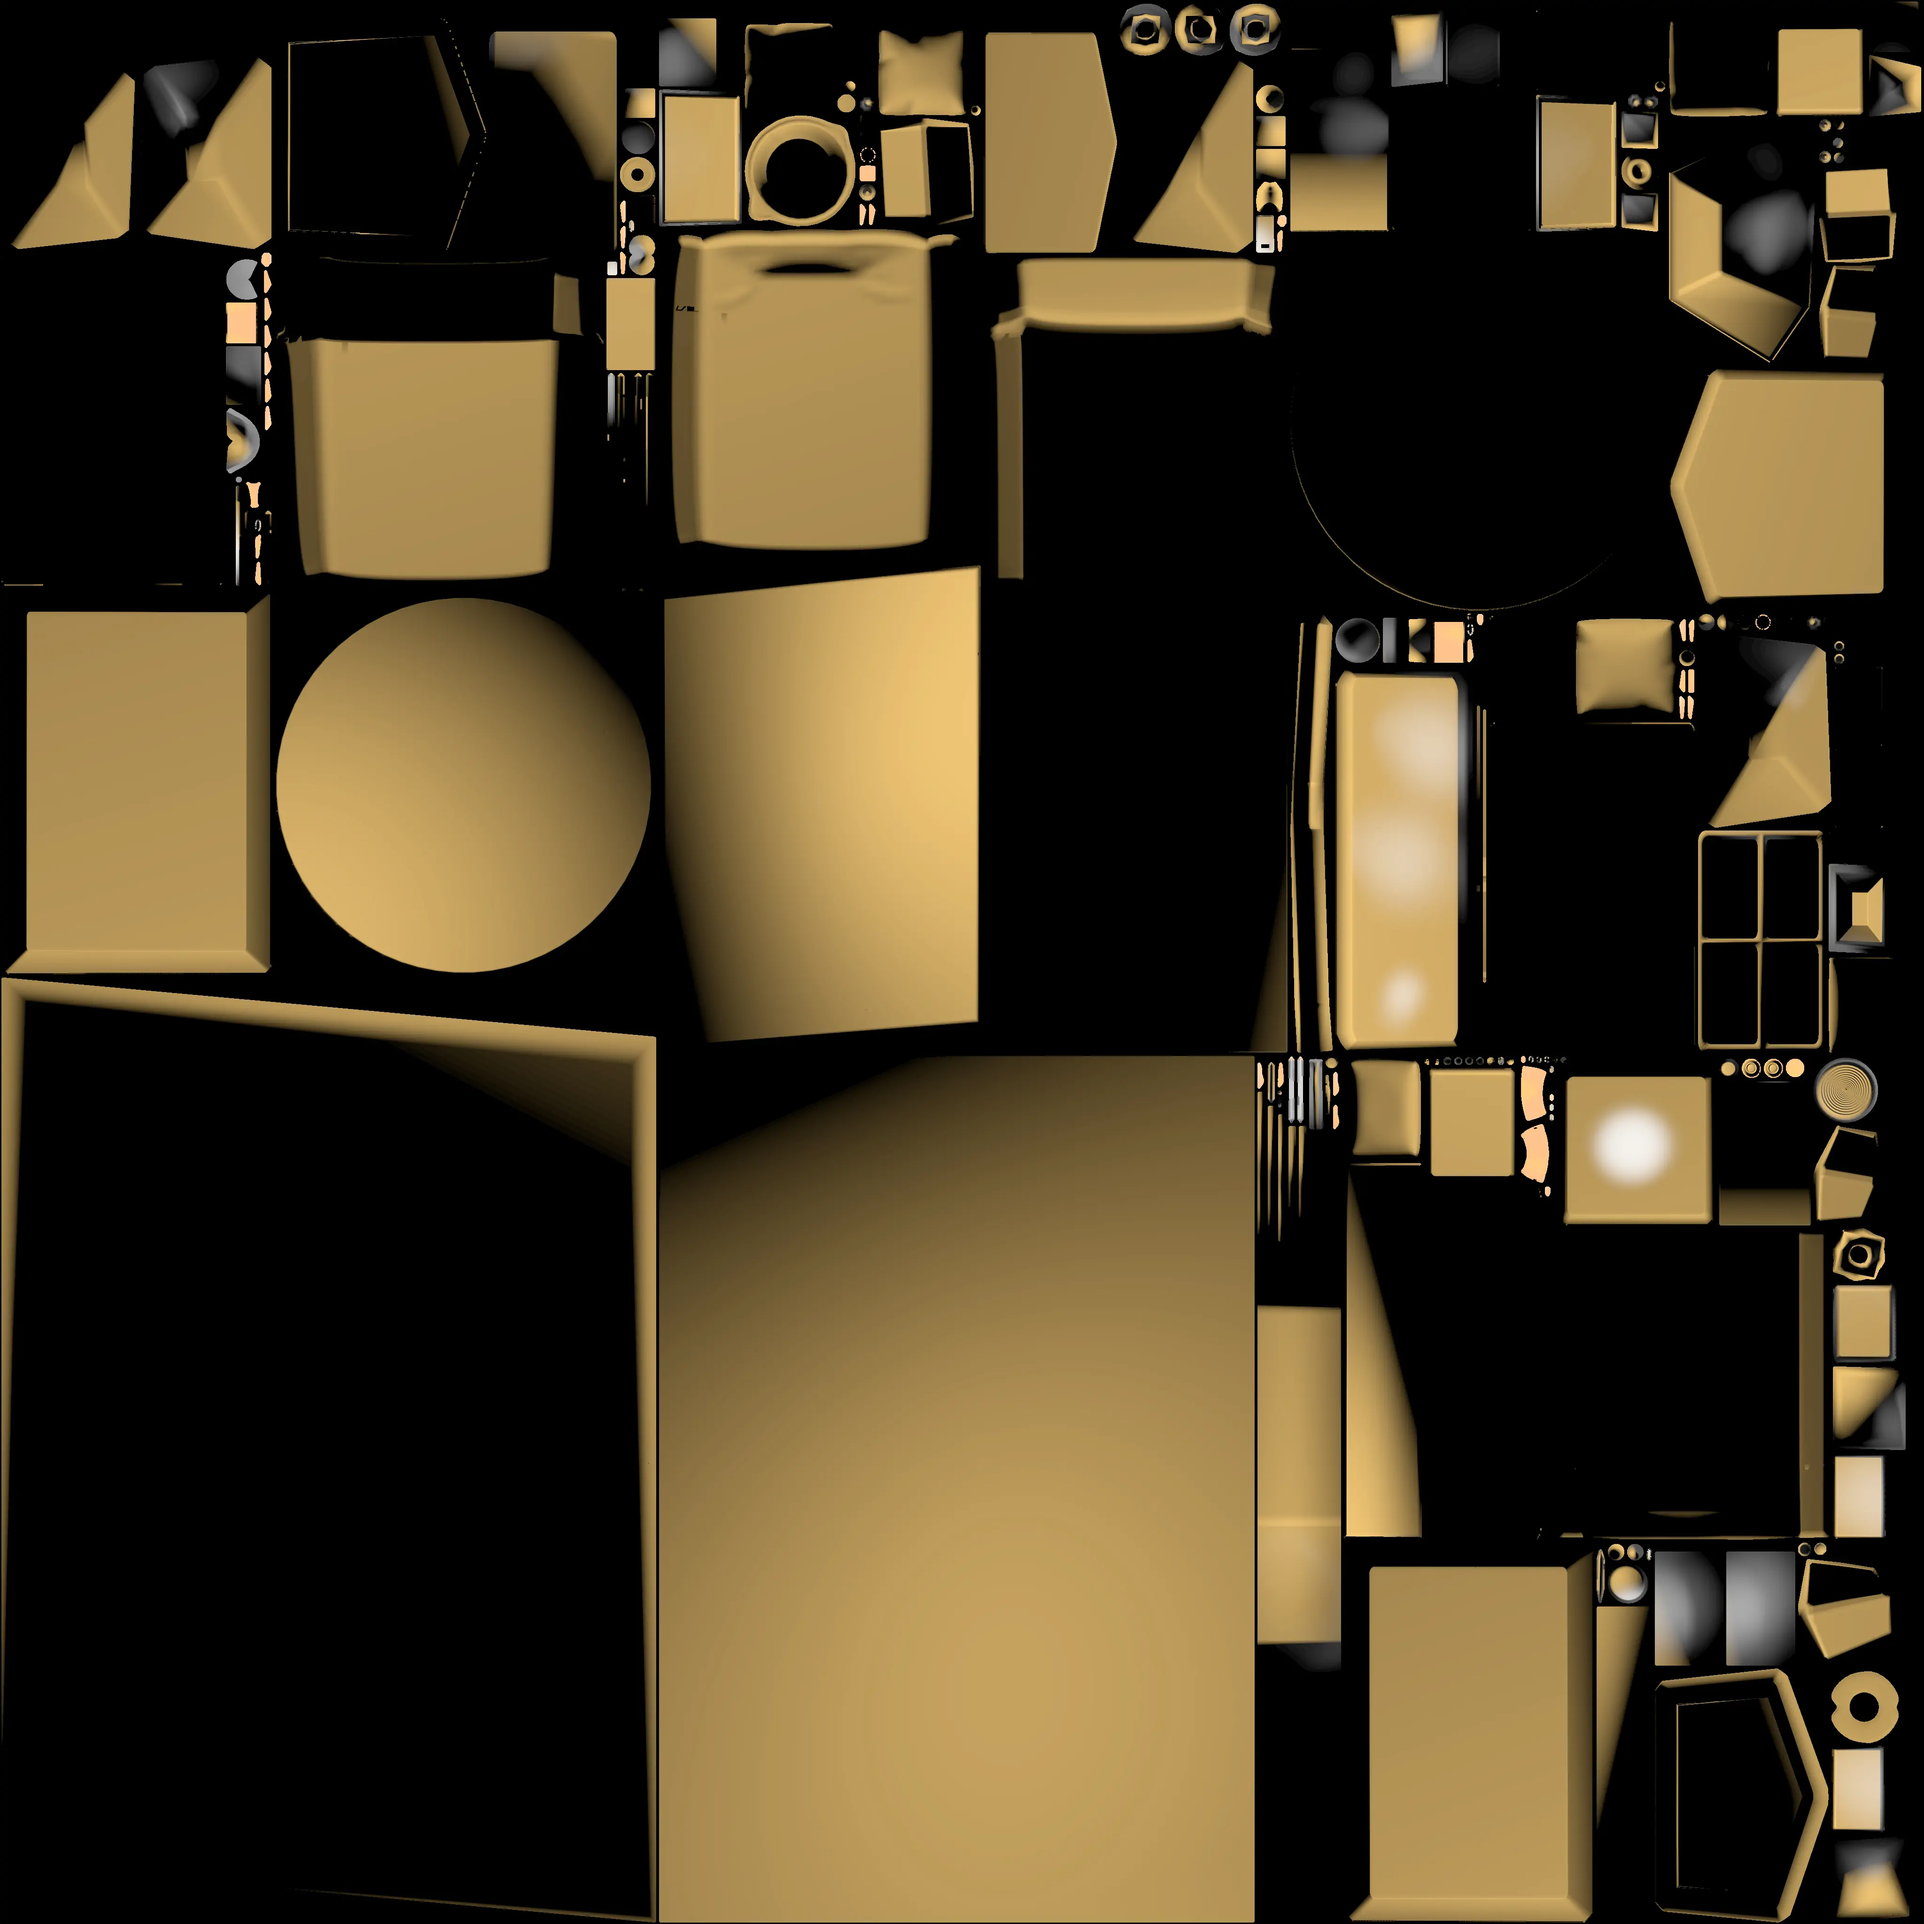
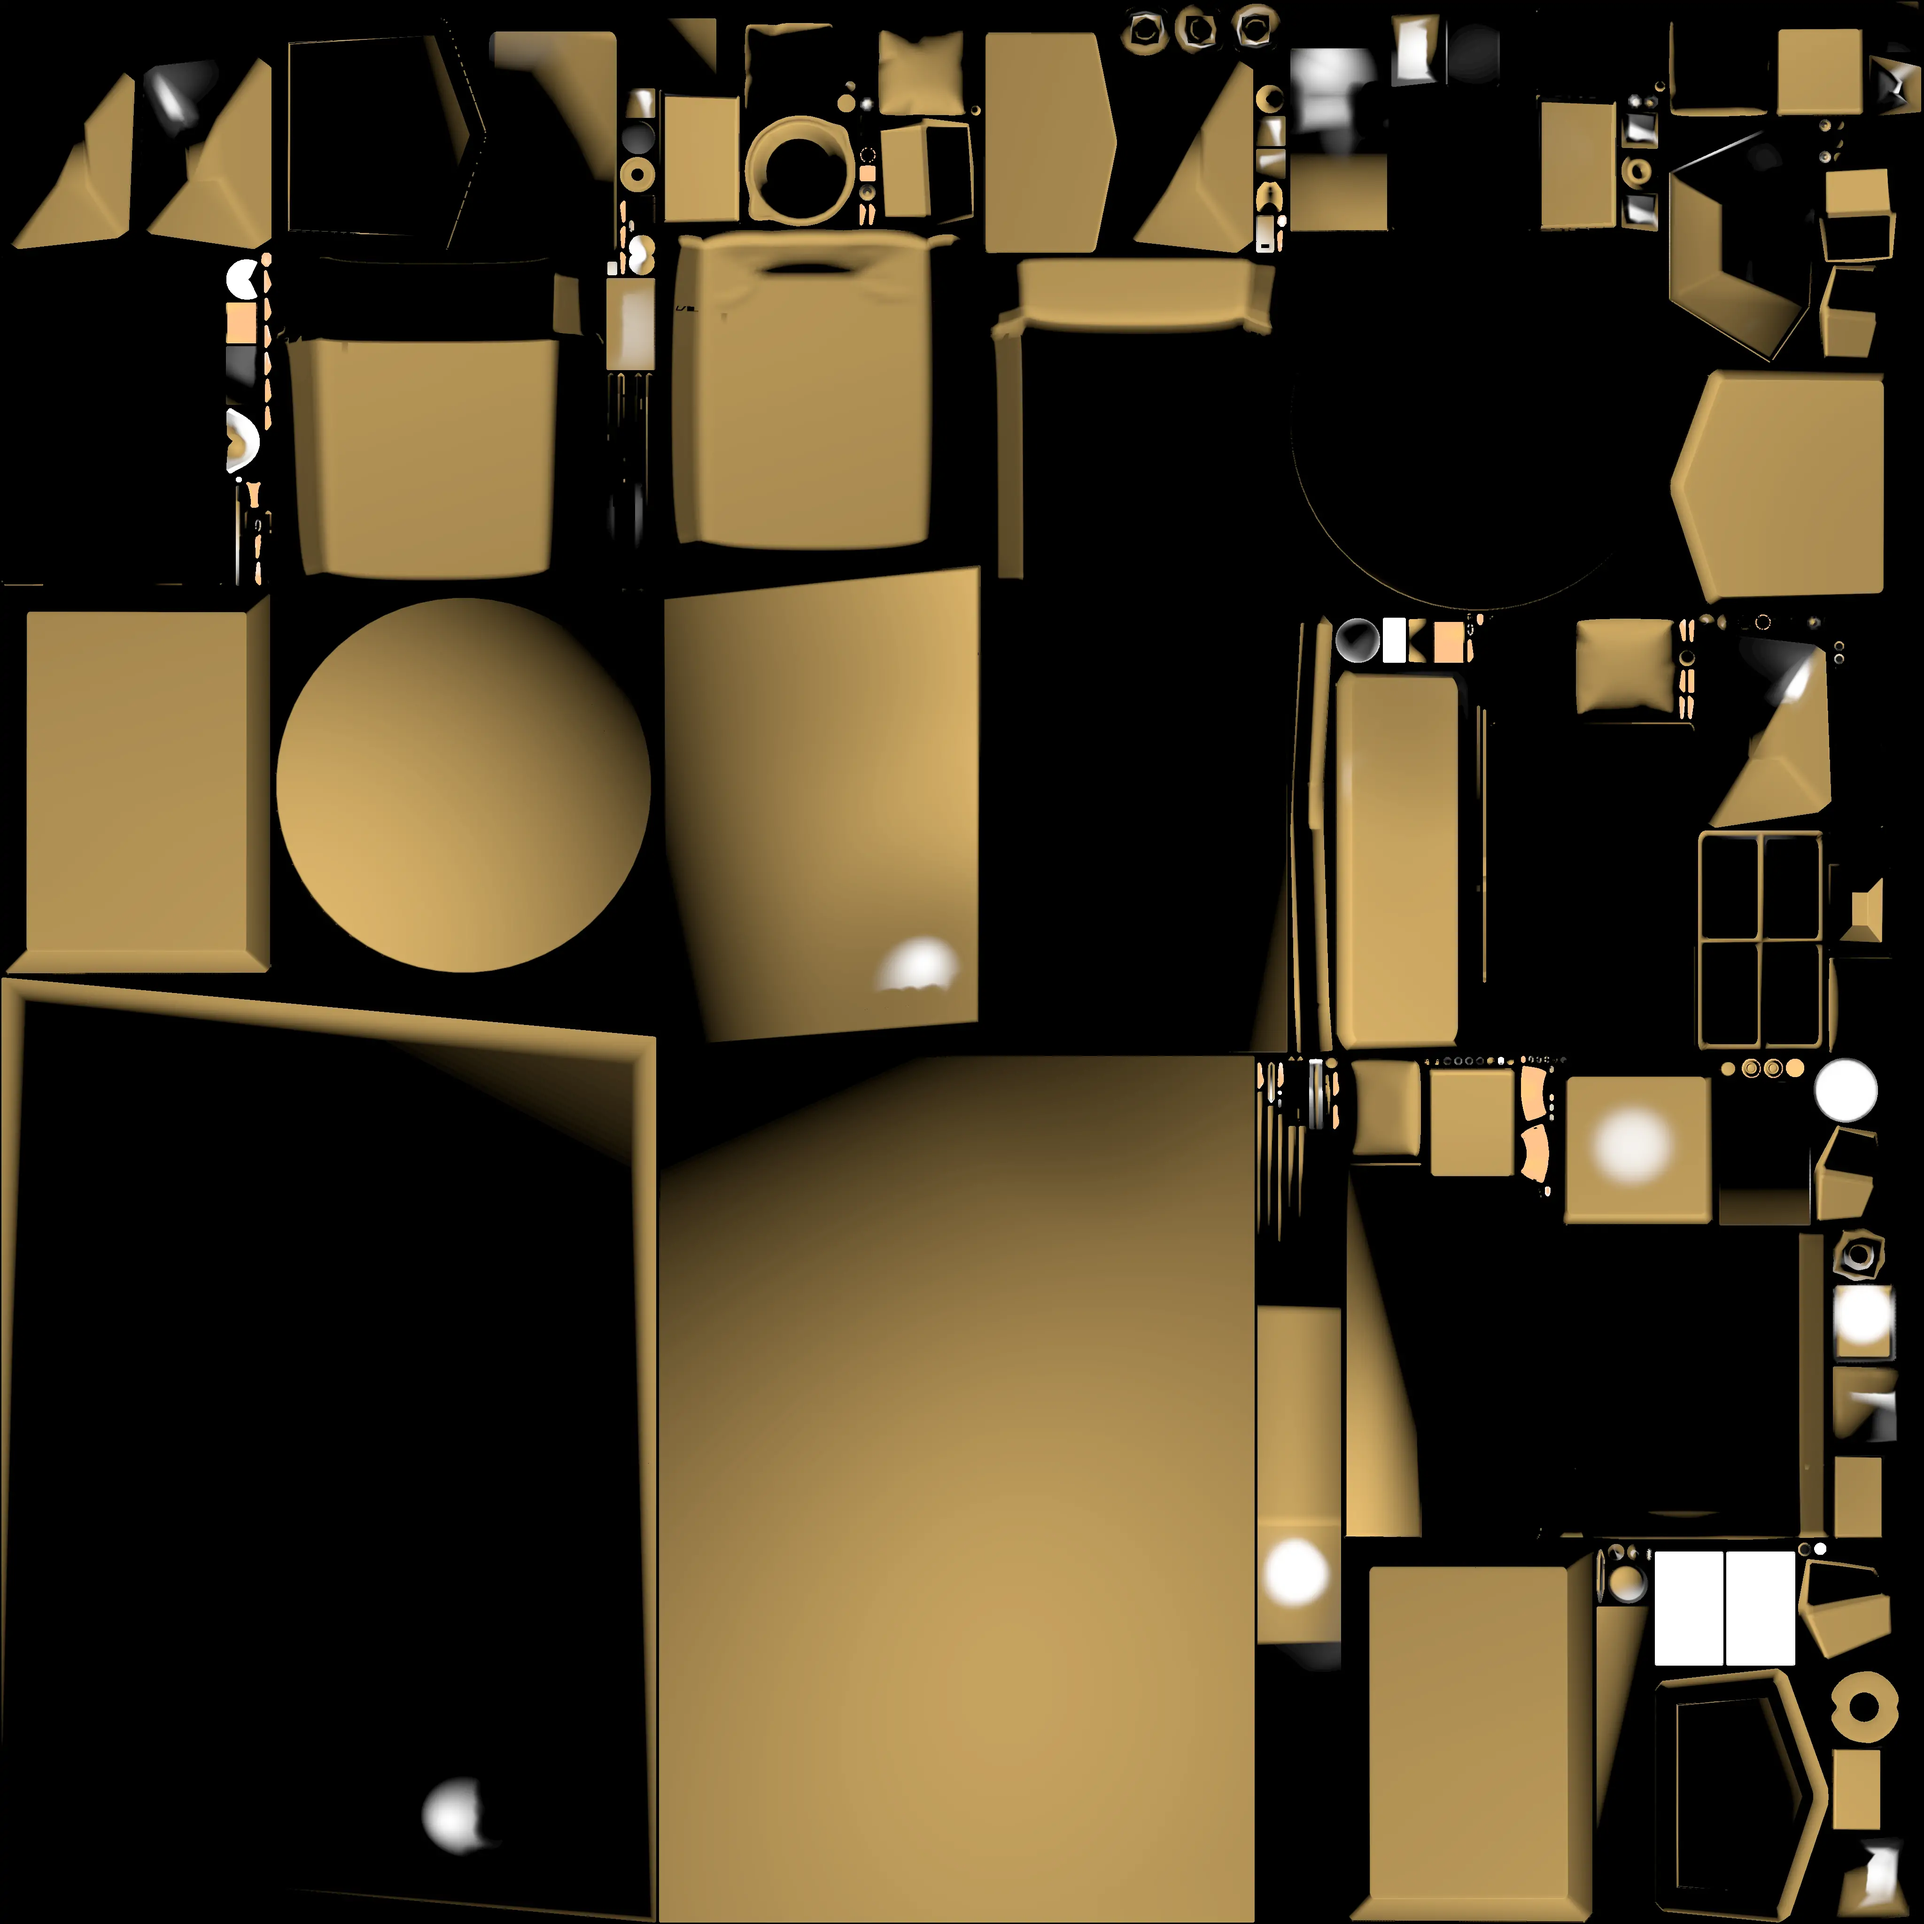
darkmodeの変更

diff --git a/src/components/sections/Profile.tsx b/src/components/sections/Profile.tsx
@@ -8,26 +8,22 @@ export default function Profile() {
   return (
     <section
       id="profile"
-      className="absolute left-0 flex min-h-screen w-full items-center justify-center p-4 md:justify-end md:pr-32"
-      style={{
-        top: "160vh",
-        transform: "translateY(-50%)",
-      }}
+      className="absolute top-[130vh] left-0 flex min-h-screen w-full -translate-y-1/2 items-center justify-center p-4 md:top-[160vh] md:justify-end md:pr-32"
     >
       <motion.div
         initial={{ x: 100, opacity: 0 }}
         whileInView={{ x: 0, opacity: 1 }}
         viewport={{ once: false, amount: 0.4 }}
         transition={{ duration: 0.8, ease: "easeOut" }}
-        className="mx-auto w-full max-w-xl rounded-[3rem] border-[4px] border-white/20 bg-[#5d4037]/90 px-10 py-16 text-white shadow-2xl backdrop-blur-md md:mx-0"
+        className="mx-auto w-full max-w-xl rounded-2xl border-[4px] border-white/20 bg-[#5d4037]/90 px-6 py-10 text-white shadow-2xl backdrop-blur-md md:mx-0 md:rounded-[3rem] md:px-10 md:py-16"
       >
         {/* セクションタイトル: TYPO.h2 */}
-        <h2 className={`${TYPO.h2} mb-10 text-center`}>PROFILE</h2>
+        <h2 className={`${TYPO.h2} mb-6 text-center md:mb-10`}>PROFILE</h2>
 
-        <div className="space-y-8 text-center">
+        <div className="space-y-6 text-center md:space-y-8">
           <div className="flex flex-col items-center">
             {/* アイコン枠: TYPO.cyan の glow を薄く適用 */}
-            <div className="relative mb-6 h-32 w-32 overflow-hidden rounded-full border-4 border-cyan-400/30 shadow-[0_0_20px_rgba(34,211,238,0.2)]">
+            <div className="relative mb-4 h-24 w-24 overflow-hidden rounded-full border-4 border-cyan-400/30 shadow-[0_0_20px_rgba(34,211,238,0.2)] md:mb-6 md:h-32 md:w-32">
               <Image
                 src="/cat.png"
                 alt="My Icon"
@@ -44,7 +40,7 @@ export default function Profile() {
           </div>
 
           {/* 自己紹介エリア */}
-          <div className="rounded-2xl border border-white/5 bg-white/10 p-6 text-left shadow-inner">
+          <div className="rounded-2xl border border-white/5 bg-white/10 p-4 text-left shadow-inner md:p-6">
             <p className={`${TYPO.p} mb-4`}>
               INIAD (Toyo Univ) Student. <br />I love creating web applications
               and 3D graphics.

diff --git a/src/components/sections/Works.tsx b/src/components/sections/Works.tsx
@@ -34,23 +34,19 @@ export default function Works() {
   return (
     <section
       id="works"
-      className="absolute left-0 flex min-h-screen w-full items-center justify-center p-4 md:justify-start md:pl-32"
-      style={{
-        top: "340vh",
-        transform: "translateY(-50%)",
-      }}
+      className="absolute top-[270vh] left-0 flex min-h-screen w-full -translate-y-1/2 items-center justify-center p-4 md:top-[340vh] md:justify-start md:pl-32"
     >
       <motion.div
         initial={{ x: -100, opacity: 0 }}
         whileInView={{ x: 0, opacity: 1 }}
         viewport={{ once: false, amount: 0.4 }}
         transition={{ duration: 0.8, ease: "easeOut" }}
-        className="w-full max-w-2xl rounded-[3rem] border-[4px] border-white/20 bg-[#5d4037]/90 px-8 py-16 text-white shadow-2xl backdrop-blur-md md:px-12 md:py-20"
+        className="w-full max-w-2xl rounded-2xl border-[4px] border-white/20 bg-[#5d4037]/90 px-5 py-10 text-white shadow-2xl backdrop-blur-md md:rounded-[3rem] md:px-12 md:py-20"
       >
         {/* セクションタイトル: TYPO.h2 */}
-        <h2 className={`${TYPO.h2} mb-10 text-center`}>WORKS</h2>
+        <h2 className={`${TYPO.h2} mb-6 text-center md:mb-10`}>WORKS</h2>
 
-        <div className="flex flex-col gap-6">
+        <div className="flex flex-col gap-4 md:gap-6">
           {projects.map((project, index) => (
             <motion.a
               key={index}
@@ -59,10 +55,10 @@ export default function Works() {
                 x: 10,
                 backgroundColor: "rgba(255, 255, 255, 0.15)",
               }}
-              className="group flex items-center gap-6 overflow-hidden rounded-2xl border border-white/5 bg-white/10 p-4 shadow-sm transition-all"
+              className="group flex items-center gap-3 overflow-hidden rounded-2xl border border-white/5 bg-white/10 p-3 shadow-sm transition-all md:gap-6 md:p-4"
             >
               {/* サムネイル */}
-              <div className="relative h-20 w-20 shrink-0 overflow-hidden rounded-xl border border-white/10 bg-white/10">
+              <div className="relative h-14 w-14 shrink-0 overflow-hidden rounded-xl border border-white/10 bg-white/10 md:h-20 md:w-20">
                 {project.thumbnail ? (
                   <Image
                     src={project.thumbnail}

diff --git a/src/components/sections/Top.tsx b/src/components/sections/Top.tsx
@@ -2,21 +2,18 @@
 
 export default function Top() {
   return (
-    <section
-      className="absolute top-0 left-0 flex min-h-screen w-full items-center justify-center p-4 px-6 text-center md:justify-start md:pl-32 md:text-left"
-      style={{ top: "0vh" }}
-    >
+    <section className="absolute top-0 left-0 flex min-h-screen w-full items-center justify-center p-4 px-6 text-center md:justify-start md:pl-32 md:text-left">
       <div className="z-10">
-        <p className="mb-2 font-bold tracking-widest text-cyan-400">
+        <p className="mb-2 text-sm font-bold tracking-widest text-cyan-400 md:text-base">
           PORTFOLIO
         </p>
-        <h1 className="text-6xl font-black text-slate-800 drop-shadow-[0_2px_2px_rgba(255,255,255,0.8)]">
+        <h1 className="text-4xl font-black text-slate-800 drop-shadow-[0_2px_2px_rgba(255,255,255,0.8)] md:text-6xl">
           KOTARO MISAWA<span className="text-cyan-400"> .</span>
         </h1>
-        <h2 className="mt-4 text-2xl font-medium text-slate-800 drop-shadow-[0_2px_2px_rgba(255,255,255,0.8)]">
+        <h2 className="mt-4 text-lg font-medium text-slate-800 drop-shadow-[0_2px_2px_rgba(255,255,255,0.8)] md:text-2xl">
           Creative Developer / 3D Artist
         </h2>
-        <div className="mt-8 h-1 w-100 bg-cyan-400"></div>
+        <div className="mt-6 h-1 w-40 bg-cyan-400 md:mt-8 md:w-100"></div>
       </div>
     </section>
   );

diff --git a/src/components/Scene.tsx b/src/components/Scene.tsx
@@ -1,7 +1,7 @@
 "use client";
 
 import * as THREE from "three";
-import { Suspense } from "react";
+import { Suspense, useEffect, useState } from "react";
 import { Canvas, useFrame } from "@react-three/fiber";
 import { ScrollControls, Scroll, useScroll } from "@react-three/drei";
 import { useTheme } from "next-themes";
@@ -31,6 +31,19 @@ function ColorShift() {
 export default function Scene() {
   const { theme } = useTheme();
   const isDark = theme === "dark";
+  const [isMobile, setIsMobile] = useState(false);
+
+  useEffect(() => {
+    const onResize = () => {
+      setIsMobile(window.innerWidth < 768);
+    };
+
+    onResize();
+    window.addEventListener("resize", onResize);
+    return () => {
+      window.removeEventListener("resize", onResize);
+    };
+  }, []);
 
   return (
     <Canvas
@@ -48,7 +61,7 @@ export default function Scene() {
       <ambientLight intensity={1} color="#ffffff" />
 
       <Suspense fallback={null}>
-        <ScrollControls pages={10.5} damping={0.1}>
+        <ScrollControls pages={isMobile ? 9 : 10.5} damping={0.1}>
           <Model isDark={isDark} />
           <CameraHandler />
           <ColorShift />
